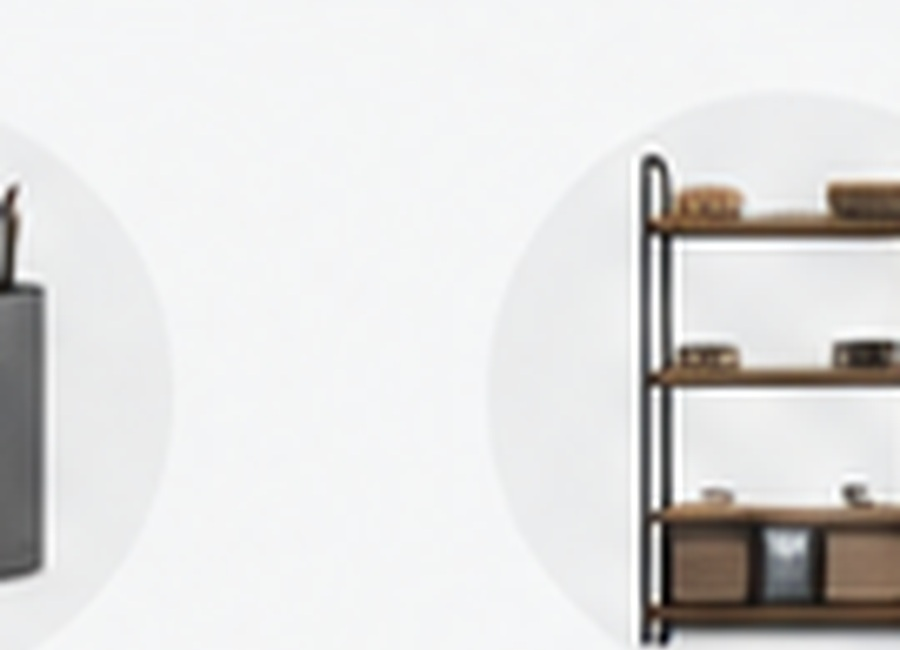
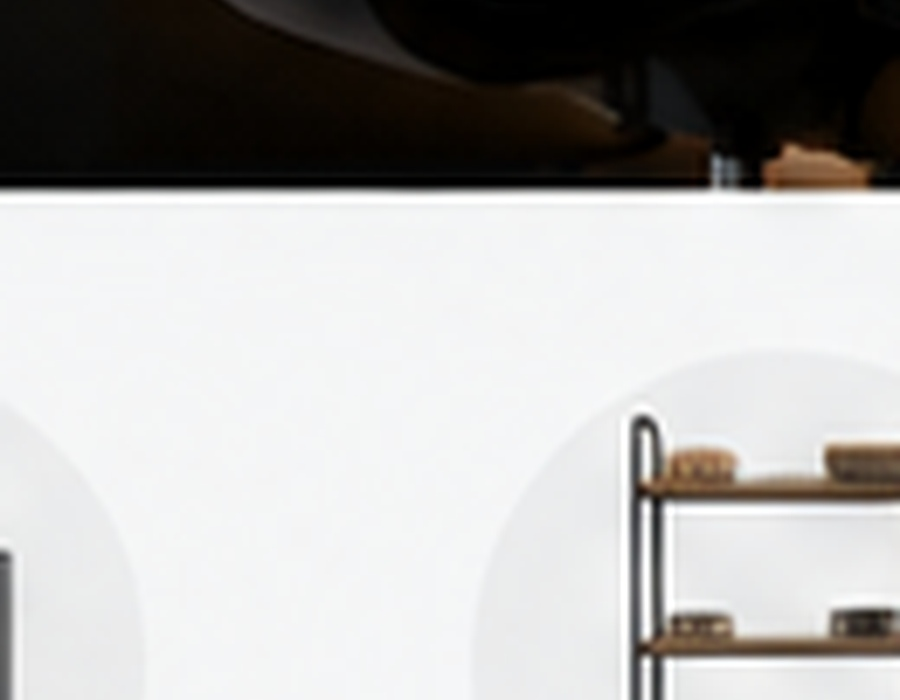
Add files via upload

diff --git a/css/style.css b/css/style.css
@@ -1,1 +1,1 @@
-*{box-sizing:border-box} :root{--ink:#0b0f12;--panel:#12181c;--green:#8cff19;--muted:#66716d;--line:#dce2de}body{margin:0;font-family:Inter,Arial,sans-serif;color:var(--ink);background:#fff}a{text-decoration:none;color:inherit}button,input,select,textarea{font:inherit}.container{width:min(1240px,calc(100% - 36px));margin:auto}.top{background:#080c0f;color:#cdd5d2;font-size:12px;padding:9px}.top .container{display:flex;justify-content:space-between}.top strong,.eyebrow{color:var(--green)}.header{background:#090d10;color:white;border-bottom:1px solid #273035;position:sticky;top:0;z-index:20}.head{height:74px;display:flex;align-items:center;gap:24px}.brand img{width:175px;height:58px;object-fit:contain}.nav{display:flex;gap:18px;flex:1;font-size:13px}.nav a:hover,.nav a.active{color:var(--green)}.search{width:270px}.search input{width:100%;padding:11px 15px;border-radius:22px;background:#192126;border:1px solid #364047;color:white}.actions{display:flex;gap:12px}.icon{background:none;border:0;color:white;cursor:pointer;font-size:18px;position:relative}.count{position:absolute;right:-8px;top:-7px;background:var(--green);color:#071008;border-radius:10px;padding:2px 5px;font-size:10px}.hero{min-height:590px;background:#101417 url('../assets/images/banners/hero-workspace.jpg') center/cover no-repeat;color:white;position:relative}.hero:after{content:'';position:absolute;inset:0;background:linear-gradient(90deg,rgba(5,8,10,.96),rgba(5,8,10,.7) 40%,rgba(5,8,10,.08) 82%)}.hero .container{position:relative;z-index:1}.hero-copy{padding:100px 0 70px;max-width:590px}.hero h1{font-size:clamp(44px,6vw,76px);line-height:.98;margin:12px 0 20px}.hero p{font-size:18px;line-height:1.6;color:#dce3df}.actions-row{display:flex;gap:12px;margin:28px 0}.btn{display:inline-flex;align-items:center;justify-content:center;gap:8px;padding:12px 18px;border:1px solid #cbd4cf;background:white;border-radius:8px;font-weight:800;cursor:pointer}.btn.primary{background:var(--green);border-color:var(--green)}.btn.dark{background:#101418;border-color:#667077;color:#fff}.benefits{display:flex;gap:25px;margin-top:42px}.benefit b{display:block}.benefit span{color:#b8c2bf;font-size:12px}.section{padding:68px 0}.section.dark{background:#0d1215;color:white}.section-head{display:flex;justify-content:space-between;align-items:end;margin-bottom:25px}.section-head h2{font-size:34px;margin:5px 0}.eyebrow{text-transform:uppercase;letter-spacing:.17em;font-size:11px;font-weight:900}.categories{display:grid;grid-template-columns:repeat(8,1fr);gap:12px}.cat{border:1px solid var(--line);border-radius:12px;overflow:hidden;text-align:center;background:white}.cat:hover{transform:translateY(-3px)}.cat img{width:100%;aspect-ratio:1;object-fit:cover;display:block}.cat strong{display:block;padding:10px 5px 2px}.cat small{display:block;color:var(--muted);padding-bottom:12px}.grid{display:grid;grid-template-columns:repeat(4,1fr);gap:18px}.product{border:1px solid var(--line);border-radius:14px;overflow:hidden;background:white}.pimg{height:250px;background:#f5f7f5;position:relative}.pimg img{width:100%;height:100%;object-fit:contain}.heart{position:absolute;right:12px;top:12px;border:1px solid #d2dad6;background:white;width:38px;height:38px;border-radius:50%;cursor:pointer}.badge{position:absolute;left:12px;top:12px;background:var(--green);padding:6px 9px;border-radius:14px;font-size:11px;font-weight:900}.pbody{padding:16px}.pbody .category{font-size:11px;letter-spacing:.12em;color:#77817e;text-transform:uppercase}.pbody h3{margin:8px 0;font-size:18px}.rating{color:#eaa400;font-size:13px}.price{font-size:21px;font-weight:900;margin:8px 0}.pbody p{font-size:13px;color:var(--muted);line-height:1.5;min-height:40px}.feature-grid,.tools{display:grid;grid-template-columns:repeat(3,1fr);gap:16px}.feature{height:285px;border-radius:16px;background-size:cover;background-position:center;position:relative;overflow:hidden;color:white}.feature:after{content:'';position:absolute;inset:0;background:linear-gradient(90deg,rgba(0,0,0,.78),rgba(0,0,0,.12))}.feature-copy{position:relative;z-index:1;padding:28px;max-width:390px}.feature h3{font-size:28px;margin:7px 0}.builder{display:grid;grid-template-columns:1fr 1fr;border-radius:18px;overflow:hidden;background:#11181c}.builder-photo{min-height:390px;background:url('../assets/images/banners/desk-builder.jpg') center/cover}.builder-copy{padding:48px;color:white}.builder-copy h2{font-size:40px;margin:8px 0}.muted{color:var(--muted)}.builder-list{display:grid;grid-template-columns:1fr 1fr;gap:9px;margin:24px 0}.builder-list span{border:1px solid #344047;padding:10px;border-radius:7px}.page-hero{background:#0d1215;color:white;padding:72px 0}.page-hero h1{font-size:54px;margin:8px 0}.toolbar{display:flex;gap:10px;margin-bottom:25px}.toolbar input,.toolbar select{padding:12px;border:1px solid var(--line);border-radius:8px}.toolbar input{flex:1}.footer{background:#080d10;color:#b9c4c0;padding:55px 0 20px}.footer-grid{width:min(1240px,calc(100% - 36px));margin:auto;display:grid;grid-template-columns:2fr 1fr 1fr 1.4fr;gap:35px}.footer h4{color:white}.footer a{display:block;margin:8px 0}.footer-bottom{width:min(1240px,calc(100% - 36px));margin:35px auto 0;border-top:1px solid #273136;padding-top:17px;font-size:12px}.drawer{position:fixed;right:-430px;top:0;width:min(430px,92vw);height:100%;background:white;z-index:80;padding:24px;box-shadow:-20px 0 60px #0003;transition:.25s;overflow:auto}.drawer.open{right:0}.overlay{display:none;position:fixed;inset:0;background:#0007;z-index:70}.overlay.show{display:block}.cart-row{display:grid;grid-template-columns:60px 1fr auto;gap:10px;border-bottom:1px solid var(--line);padding:12px 0}.cart-row img{width:60px;height:50px;object-fit:contain;background:#f5f6f5}.toast{position:fixed;right:20px;bottom:20px;background:#101417;color:white;padding:13px 17px;border-radius:8px;z-index:100;opacity:0;transform:translateY(20px);transition:.2s}.toast.show{opacity:1;transform:none}.form{display:grid;gap:12px;max-width:650px}.form input,.form textarea{padding:12px;border:1px solid var(--line);border-radius:8px}.form textarea{min-height:150px}.info-grid{display:grid;grid-template-columns:repeat(3,1fr);gap:16px}.info{border:1px solid var(--line);border-radius:14px;padding:24px}.detail{display:grid;grid-template-columns:1.1fr .9fr;gap:45px}.detail-photo{background:#f5f7f5;border-radius:18px;min-height:570px}.detail-photo img{width:100%;height:100%;object-fit:contain}.chips{display:flex;gap:8px;flex-wrap:wrap;margin:20px 0}.chip{background:#eef2ef;padding:8px 10px;border-radius:20px;font-size:12px}@media(max-width:1050px){.nav{display:none}.categories{grid-template-columns:repeat(4,1fr)}.grid{grid-template-columns:repeat(3,1fr)}.builder,.detail{grid-template-columns:1fr}.feature-grid,.tools{grid-template-columns:1fr}.footer-grid{grid-template-columns:1fr 1fr}}@media(max-width:650px){.search{display:none}.hero-copy{padding:70px 0 45px}.benefits{display:grid;grid-template-columns:1fr 1fr}.categories{grid-template-columns:repeat(2,1fr)}.grid{grid-template-columns:1fr 1fr}.footer-grid,.info-grid{grid-template-columns:1fr}.section{padding:48px 0}.toolbar{flex-direction:column}}@media(max-width:450px){.grid{grid-template-columns:1fr}.brand img{width:140px}.hero h1{font-size:45px}}
+*{box-sizing:border-box} :root{--ink:#0b0f12;--panel:#12181c;--green:#8cff19;--muted:#66716d;--line:#dce2de}body{margin:0;font-family:Inter,Arial,sans-serif;color:var(--ink);background:#fff}a{text-decoration:none;color:inherit}button,input,select,textarea{font:inherit}.container{width:min(1240px,calc(100% - 36px));margin:auto}.top{background:#080c0f;color:#cdd5d2;font-size:12px;padding:9px}.top .container{display:flex;justify-content:space-between}.top strong,.eyebrow{color:var(--green)}.header{background:#090d10;color:white;border-bottom:1px solid #273035;position:sticky;top:0;z-index:20}.head{height:74px;display:flex;align-items:center;gap:24px}.brand img{width:175px;height:58px;object-fit:contain}.nav{display:flex;gap:18px;flex:1;font-size:13px}.nav a:hover,.nav a.active{color:var(--green)}.search{width:270px}.search input{width:100%;padding:11px 15px;border-radius:22px;background:#192126;border:1px solid #364047;color:white}.actions{display:flex;gap:12px}.icon{background:none;border:0;color:white;cursor:pointer;font-size:18px;position:relative}.count{position:absolute;right:-8px;top:-7px;background:var(--green);color:#071008;border-radius:10px;padding:2px 5px;font-size:10px}.hero{min-height:590px;background:#101417 url('../assets/images/banners/hero-workspace.jpg') center/cover no-repeat;color:white;position:relative}.hero:after{content:'';position:absolute;inset:0;background:linear-gradient(90deg,rgba(5,8,10,.96),rgba(5,8,10,.7) 40%,rgba(5,8,10,.08) 82%)}.hero .container{position:relative;z-index:1}.hero-copy{padding:100px 0 70px;max-width:590px}.hero h1{font-size:clamp(44px,6vw,76px);line-height:.98;margin:12px 0 20px}.hero p{font-size:18px;line-height:1.6;color:#dce3df}.actions-row{display:flex;gap:12px;margin:28px 0}.btn{display:inline-flex;align-items:center;justify-content:center;gap:8px;padding:12px 18px;border:1px solid #cbd4cf;background:white;border-radius:8px;font-weight:800;cursor:pointer}.btn.primary{background:var(--green);border-color:var(--green)}.btn.dark{background:#101418;border-color:#667077;color:#fff}.benefits{display:flex;gap:25px;margin-top:42px}.benefit b{display:block}.benefit span{color:#b8c2bf;font-size:12px}.section{padding:68px 0}.section.dark{background:#0d1215;color:white}.section-head{display:flex;justify-content:space-between;align-items:end;margin-bottom:25px}.section-head h2{font-size:34px;margin:5px 0}.eyebrow{text-transform:uppercase;letter-spacing:.17em;font-size:11px;font-weight:900}.categories{display:grid;grid-template-columns:repeat(8,1fr);gap:12px}.cat{border:1px solid var(--line);border-radius:12px;overflow:hidden;text-align:center;background:white}.cat:hover{transform:translateY(-3px)}.cat img{width:100%;aspect-ratio:1;object-fit:cover;display:block}.cat strong{display:block;padding:10px 5px 2px}.cat small{display:block;color:var(--muted);padding-bottom:12px}.grid{display:grid;grid-template-columns:repeat(4,1fr);gap:18px}.product{border:1px solid var(--line);border-radius:14px;overflow:hidden;background:white}.pimg{height:250px;background:#f5f7f5;position:relative}.pimg img{width:100%;height:100%;object-fit:contain}.heart{position:absolute;right:12px;top:12px;border:1px solid #d2dad6;background:white;width:38px;height:38px;border-radius:50%;cursor:pointer}.badge{position:absolute;left:12px;top:12px;background:var(--green);padding:6px 9px;border-radius:14px;font-size:11px;font-weight:900}.pbody{padding:16px}.pbody .category{font-size:11px;letter-spacing:.12em;color:#77817e;text-transform:uppercase}.pbody h3{margin:8px 0;font-size:18px}.rating{color:#eaa400;font-size:13px}.price{font-size:21px;font-weight:900;margin:8px 0}.pbody p{font-size:13px;color:var(--muted);line-height:1.5;min-height:40px}.feature-grid,.tools{display:grid;grid-template-columns:repeat(3,1fr);gap:16px}.feature{height:285px;border-radius:16px;background:#11181c;position:relative;overflow:hidden;color:white;border:1px solid #29343a}.feature:after{display:none}.feature-copy{position:relative;z-index:1;padding:28px;max-width:390px}.feature h3{font-size:28px;margin:7px 0}.builder{display:grid;grid-template-columns:1fr 1fr;border-radius:18px;overflow:hidden;background:#11181c}.builder-photo{min-height:390px;background:linear-gradient(135deg,#182126,#0d1215 60%,#8cff19 180%)}.builder-copy{padding:48px;color:white}.builder-copy h2{font-size:40px;margin:8px 0}.muted{color:var(--muted)}.builder-list{display:grid;grid-template-columns:1fr 1fr;gap:9px;margin:24px 0}.builder-list span{border:1px solid #344047;padding:10px;border-radius:7px}.page-hero{background:#0d1215;color:white;padding:72px 0}.page-hero h1{font-size:54px;margin:8px 0}.toolbar{display:flex;gap:10px;margin-bottom:25px}.toolbar input,.toolbar select{padding:12px;border:1px solid var(--line);border-radius:8px}.toolbar input{flex:1}.footer{background:#080d10;color:#b9c4c0;padding:55px 0 20px}.footer-grid{width:min(1240px,calc(100% - 36px));margin:auto;display:grid;grid-template-columns:2fr 1fr 1fr 1.4fr;gap:35px}.footer h4{color:white}.footer a{display:block;margin:8px 0}.footer-bottom{width:min(1240px,calc(100% - 36px));margin:35px auto 0;border-top:1px solid #273136;padding-top:17px;font-size:12px}.drawer{position:fixed;right:-430px;top:0;width:min(430px,92vw);height:100%;background:white;z-index:80;padding:24px;box-shadow:-20px 0 60px #0003;transition:.25s;overflow:auto}.drawer.open{right:0}.overlay{display:none;position:fixed;inset:0;background:#0007;z-index:70}.overlay.show{display:block}.cart-row{display:grid;grid-template-columns:60px 1fr auto;gap:10px;border-bottom:1px solid var(--line);padding:12px 0}.cart-row img{width:60px;height:50px;object-fit:contain;background:#f5f6f5}.toast{position:fixed;right:20px;bottom:20px;background:#101417;color:white;padding:13px 17px;border-radius:8px;z-index:100;opacity:0;transform:translateY(20px);transition:.2s}.toast.show{opacity:1;transform:none}.form{display:grid;gap:12px;max-width:650px}.form input,.form textarea{padding:12px;border:1px solid var(--line);border-radius:8px}.form textarea{min-height:150px}.info-grid{display:grid;grid-template-columns:repeat(3,1fr);gap:16px}.info{border:1px solid var(--line);border-radius:14px;padding:24px}.detail{display:grid;grid-template-columns:1.1fr .9fr;gap:45px}.detail-photo{background:#f5f7f5;border-radius:18px;min-height:570px}.detail-photo img{width:100%;height:100%;object-fit:contain}.chips{display:flex;gap:8px;flex-wrap:wrap;margin:20px 0}.chip{background:#eef2ef;padding:8px 10px;border-radius:20px;font-size:12px}@media(max-width:1050px){.nav{display:none}.categories{grid-template-columns:repeat(4,1fr)}.grid{grid-template-columns:repeat(3,1fr)}.builder,.detail{grid-template-columns:1fr}.feature-grid,.tools{grid-template-columns:1fr}.footer-grid{grid-template-columns:1fr 1fr}}@media(max-width:650px){.search{display:none}.hero-copy{padding:70px 0 45px}.benefits{display:grid;grid-template-columns:1fr 1fr}.categories{grid-template-columns:repeat(2,1fr)}.grid{grid-template-columns:1fr 1fr}.footer-grid,.info-grid{grid-template-columns:1fr}.section{padding:48px 0}.toolbar{flex-direction:column}}@media(max-width:450px){.grid{grid-template-columns:1fr}.brand img{width:140px}.hero h1{font-size:45px}}

diff --git a/index.html b/index.html
@@ -1,1 +1,5 @@
-<!doctype html><html lang="en"><head><meta charset="utf-8"><meta name="viewport" content="width=device-width,initial-scale=1"><meta name="description" content="NOVA DESK modern workspace essentials."><title>Home | NOVA DESK</title><link rel="stylesheet" href="css/style.css"></head><body><div class="top"><div class="container"><span>🚚 Free shipping on orders over $99</span><span><strong>2-year warranty</strong> · Easy returns</span></div></div><header class="header"><div class="container head"><a class="brand" href="index.html"><img src="assets/images/brand/nova-desk-logo.png" alt="NOVA DESK"></a><nav class="nav"><a class="active" href="index.html">Home</a><a class="" href="shop.html">Shop</a><a class="" href="shop.html?category=Desks">Desks</a><a class="" href="shop.html?category=Chairs">Chairs</a><a class="" href="shop.html?category=Lighting">Lighting</a><a class="" href="shop.html?category=Accessories">Accessories</a><a class="" href="builder.html">Setup Builder</a><a class="" href="journal.html">Journal</a><a class="" href="support.html">Support</a></nav><label class="search"><input id="site-search" placeholder="Search desks, chairs, accessories..."></label><div class="actions"><button class="icon">♙</button><button class="icon" onclick="location.href='shop.html'">♡<span class="count" data-wish-count>0</span></button><button class="icon" onclick="openCart()">🛒<span class="count" data-cart-count>0</span></button></div></div></header><main class="hero"><div class="container"><div class="hero-copy"><span class="eyebrow">A better way to work</span><h1>Designed for a <span style="color:var(--green)">brighter</span> workday.</h1><p>Premium desks, ergonomic chairs and workspace essentials designed for comfort, focus and productivity.</p><div class="actions-row"><a class="btn primary" href="shop.html">Shop best sellers →</a><a class="btn dark" href="builder.html">Build your setup</a></div><div class="benefits"><div class="benefit">🚚 <b>Free shipping</b><span>Orders over $99</span></div><div class="benefit">🛡 <b>2-year warranty</b><span>Premium quality</span></div><div class="benefit">♧ <b>Dedicated support</b><span>We're here to help</span></div></div></div></div></main><section class="section"><div class="container"><div class="section-head"><div><span class="eyebrow">Shop by category</span><h2>Build your ideal space.</h2></div><a class="btn" href="categories.html">All categories →</a></div><div class="categories"><a class="cat" href="shop.html?category=Desks"><img src="assets/images/categories/desks.jpg" alt="Desks"><strong>Desks</strong><small>Shop now →</small></a><a class="cat" href="shop.html?category=Chairs"><img src="assets/images/categories/chairs.jpg" alt="Chairs"><strong>Chairs</strong><small>Shop now →</small></a><a class="cat" href="shop.html?category=Monitor Arms"><img src="assets/images/categories/monitor-arms.jpg" alt="Monitor Arms"><strong>Monitor Arms</strong><small>Shop now →</small></a><a class="cat" href="shop.html?category=Lighting"><img src="assets/images/categories/lighting.jpg" alt="Lighting"><strong>Lighting</strong><small>Shop now →</small></a><a class="cat" href="shop.html?category=Accessories"><img src="assets/images/categories/accessories.jpg" alt="Accessories"><strong>Accessories</strong><small>Shop now →</small></a><a class="cat" href="shop.html?category=Storage"><img src="assets/images/categories/storage.jpg" alt="Storage"><strong>Storage</strong><small>Shop now →</small></a><a class="cat" href="shop.html?category=Decor"><img src="assets/images/categories/decor.jpg" alt="Decor"><strong>Decor</strong><small>Shop now →</small></a><a class="cat" href="shop.html?category=Tech Gear"><img src="assets/images/categories/tech-gear.jpg" alt="Tech Gear"><strong>Tech Gear</strong><small>Shop now →</small></a></div></div></section><section class="section dark"><div class="container"><div class="builder"><div class="builder-photo"></div><div class="builder-copy"><span class="eyebrow">NOVA DESK BUILDER</span><h2>Design your perfect workspace.</h2><p style="color:#aeb9b5">Choose your desk, chair, monitor and accessories. See your setup come together before you buy.</p><div class="builder-list"><span>✓ Desk</span><span>✓ Chair</span><span>✓ Monitor</span><span>✓ Accessories</span></div><a class="btn primary" href="builder.html">Start building →</a></div></div></div></section><section class="section"><div class="container"><div class="section-head"><div><span class="eyebrow">Curated essentials</span><h2>Featured products</h2></div><a class="btn" href="shop.html">View all →</a></div><div id="product-grid" class="grid"></div></div></section><section class="section"><div class="container"><div class="feature-grid"><article class="feature" style="background-image:url('assets/images/banners/chair-finder.jpg')"><div class="feature-copy"><span class="eyebrow">Chair Finder</span><h3>Find your perfect chair.</h3><p>Get a simple recommendation based on how you work.</p><a class="btn primary" href="finder.html">Take the guide →</a></div></article><article class="feature" style="background-image:url('assets/images/banners/real-setups.jpg')"><div class="feature-copy"><span class="eyebrow">Real setups</span><h3>Workspace inspiration.</h3><p>Explore practical ideas for creators and professionals.</p><a class="btn primary" href="journal.html">Explore →</a></div></article><article class="feature" style="background-image:url('assets/images/banners/desk-builder.jpg')"><div class="feature-copy"><span class="eyebrow">Build</span><h3>Start with the essentials.</h3><p>Put your desk together in a few simple steps.</p><a class="btn primary" href="builder.html">Start building →</a></div></article></div></div></section><footer class="footer"><div class="footer-grid"><div><img src="assets/images/brand/nova-desk-logo.png" style="width:185px;height:60px;object-fit:contain"><p>Modern workspace essentials for better work and brighter days.</p><p>Portland, Oregon, United States<br>support@novadeskworkspace.com<br>+1 (503) 555-0186</p></div><div><h4>Shop</h4><a href="shop.html">All products</a><a href="shop.html?category=Desks">Desks</a><a href="shop.html?category=Chairs">Chairs</a><a href="shop.html?category=Lighting">Lighting</a></div><div><h4>Experience</h4><a href="builder.html">Desk Builder</a><a href="finder.html">Chair Finder</a><a href="journal.html">Journal</a><a href="support.html">Support</a></div><div><h4>Newsletter</h4><p>Workspace ideas, launches and setup guides.</p></div></div><div class="footer-bottom">© 2026 NOVA DESK Workspace. All rights reserved.</div></footer><div class="overlay" onclick="closeCart()"></div><aside class="drawer"><button class="btn" onclick="closeCart()">Close</button><h2>Your Cart</h2><div data-cart></div></aside><div class="toast"></div><script src="js/app.js"></script></body></html>
+<!doctype html><html lang="en"><head><meta charset="utf-8"><meta name="viewport" content="width=device-width,initial-scale=1"><meta name="description" content="NOVA DESK modern workspace essentials."><title>Home | NOVA DESK</title><link rel="stylesheet" href="css/style.css"></head><body><div class="top"><div class="container"><span>🚚 Free shipping on orders over $99</span><span><strong>2-year warranty</strong> · Easy returns</span></div></div><header class="header"><div class="container head"><a class="brand" href="index.html"><img src="assets/images/brand/nova-desk-logo.png" alt="NOVA DESK"></a><nav class="nav"><a class="active" href="index.html">Home</a><a class="" href="shop.html">Shop</a><a class="" href="shop.html?category=Desks">Desks</a><a class="" href="shop.html?category=Chairs">Chairs</a><a class="" href="shop.html?category=Lighting">Lighting</a><a class="" href="shop.html?category=Accessories">Accessories</a><a class="" href="builder.html">Setup Builder</a><a class="" href="journal.html">Journal</a><a class="" href="support.html">Support</a></nav><label class="search"><input id="site-search" placeholder="Search desks, chairs, accessories..."></label><div class="actions"><button class="icon">♙</button><button class="icon" onclick="location.href='shop.html'">♡<span class="count" data-wish-count>0</span></button><button class="icon" onclick="openCart()">🛒<span class="count" data-cart-count>0</span></button></div></div></header><main class="hero"><div class="container"><div class="hero-copy"><span class="eyebrow">A better way to work</span><h1>Designed for a <span style="color:var(--green)">brighter</span> workday.</h1><p>Premium desks, ergonomic chairs and workspace essentials designed for comfort, focus and productivity.</p><div class="actions-row"><a class="btn primary" href="shop.html">Shop best sellers →</a><a class="btn dark" href="builder.html">Build your setup</a></div><div class="benefits"><div class="benefit">🚚 <b>Free shipping</b><span>Orders over $99</span></div><div class="benefit">🛡 <b>2-year warranty</b><span>Premium quality</span></div><div class="benefit">♧ <b>Dedicated support</b><span>We're here to help</span></div></div></div></div></main><section class="section"><div class="container"><div class="section-head"><div><span class="eyebrow">Shop by category</span><h2>Build your ideal space.</h2></div><a class="btn" href="categories.html">All categories →</a></div><div class="categories"><a class="cat" href="shop.html?category=Desks"><img src="assets/images/categories/desks.jpg" alt="Desks"><strong>Desks</strong><small>Shop now →</small></a><a class="cat" href="shop.html?category=Chairs"><img src="assets/images/categories/chairs.jpg" alt="Chairs"><strong>Chairs</strong><small>Shop now →</small></a><a class="cat" href="shop.html?category=Monitor Arms"><img src="assets/images/categories/monitor-arms.jpg" alt="Monitor Arms"><strong>Monitor Arms</strong><small>Shop now →</small></a><a class="cat" href="shop.html?category=Lighting"><img src="assets/images/categories/lighting.jpg" alt="Lighting"><strong>Lighting</strong><small>Shop now →</small></a><a class="cat" href="shop.html?category=Accessories"><img src="assets/images/categories/accessories.jpg" alt="Accessories"><strong>Accessories</strong><small>Shop now →</small></a><a class="cat" href="shop.html?category=Storage"><img src="assets/images/categories/storage.jpg" alt="Storage"><strong>Storage</strong><small>Shop now →</small></a><a class="cat" href="shop.html?category=Decor"><img src="assets/images/categories/decor.jpg" alt="Decor"><strong>Decor</strong><small>Shop now →</small></a><a class="cat" href="shop.html?category=Tech Gear"><img src="assets/images/categories/tech-gear.jpg" alt="Tech Gear"><strong>Tech Gear</strong><small>Shop now →</small></a></div></div></section><section class="section dark"><div class="container"><div class="builder"><div class="builder-photo"></div><div class="builder-copy"><span class="eyebrow">NOVA DESK BUILDER</span><h2>Design your perfect workspace.</h2><p style="color:#aeb9b5">Choose your desk, chair, monitor and accessories. See your setup come together before you buy.</p><div class="builder-list"><span>✓ Desk</span><span>✓ Chair</span><span>✓ Monitor</span><span>✓ Accessories</span></div><a class="btn primary" href="builder.html">Start building →</a></div></div></div></section><section class="section"><div class="container"><div class="section-head"><div><span class="eyebrow">Curated essentials</span><h2>Featured products</h2></div><a class="btn" href="shop.html">View all →</a></div><div id="product-grid" class="grid"></div></div></section><section class="section"><div class="container"><div class="feature-grid">
+<article class="feature"><div class="feature-copy"><span class="eyebrow">Chair Finder</span><h3>Find your perfect chair.</h3><p>Compare comfort, support and adjustability before you choose.</p><a class="btn primary" href="finder.html">Take the guide →</a></div></article>
+<article class="feature"><div class="feature-copy"><span class="eyebrow">Real setups</span><h3>Workspace inspiration.</h3><p>Practical ideas for creators, professionals and compact spaces.</p><a class="btn primary" href="journal.html">Explore →</a></div></article>
+<article class="feature"><div class="feature-copy"><span class="eyebrow">Build</span><h3>Start with the essentials.</h3><p>Plan your desk, chair and lighting in a few simple steps.</p><a class="btn primary" href="builder.html">Start building →</a></div></article>
+</div></div></section><footer class="footer"><div class="footer-grid"><div><img src="assets/images/brand/nova-desk-logo.png" style="width:185px;height:60px;object-fit:contain"><p>Modern workspace essentials for better work and brighter days.</p><p>Portland, Oregon, United States<br>support@novadeskworkspace.com<br>+1 (503) 555-0186</p></div><div><h4>Shop</h4><a href="shop.html">All products</a><a href="shop.html?category=Desks">Desks</a><a href="shop.html?category=Chairs">Chairs</a><a href="shop.html?category=Lighting">Lighting</a></div><div><h4>Experience</h4><a href="builder.html">Desk Builder</a><a href="finder.html">Chair Finder</a><a href="journal.html">Journal</a><a href="support.html">Support</a></div><div><h4>Newsletter</h4><p>Workspace ideas, launches and setup guides.</p></div></div><div class="footer-bottom">© 2026 NOVA DESK Workspace. All rights reserved.</div></footer><div class="overlay" onclick="closeCart()"></div><aside class="drawer"><button class="btn" onclick="closeCart()">Close</button><h2>Your Cart</h2><div data-cart></div></aside><div class="toast"></div><script src="js/app.js"></script></body></html>

diff --git a/collections.html b/collections.html
@@ -1,1 +1,5 @@
-<!doctype html><html lang="en"><head><meta charset="utf-8"><meta name="viewport" content="width=device-width,initial-scale=1"><meta name="description" content="NOVA DESK modern workspace essentials."><title>Collections | NOVA DESK</title><link rel="stylesheet" href="css/style.css"></head><body><div class="top"><div class="container"><span>🚚 Free shipping on orders over $99</span><span><strong>2-year warranty</strong> · Easy returns</span></div></div><header class="header"><div class="container head"><a class="brand" href="index.html"><img src="assets/images/brand/nova-desk-logo.png" alt="NOVA DESK"></a><nav class="nav"><a class="active" href="index.html">Home</a><a class="" href="shop.html">Shop</a><a class="" href="shop.html?category=Desks">Desks</a><a class="" href="shop.html?category=Chairs">Chairs</a><a class="" href="shop.html?category=Lighting">Lighting</a><a class="" href="shop.html?category=Accessories">Accessories</a><a class="" href="builder.html">Setup Builder</a><a class="" href="journal.html">Journal</a><a class="" href="support.html">Support</a></nav><label class="search"><input id="site-search" placeholder="Search desks, chairs, accessories..."></label><div class="actions"><button class="icon">♙</button><button class="icon" onclick="location.href='shop.html'">♡<span class="count" data-wish-count>0</span></button><button class="icon" onclick="openCart()">🛒<span class="count" data-cart-count>0</span></button></div></div></header><main class="page-hero"><div class="container"><span class="eyebrow">Collections</span><h1>Curated workspace styles.</h1></div></main><section class="section"><div class="container"><div class="feature-grid"><article class="feature" style="background-image:url('assets/images/banners/real-setups.jpg')"><div class="feature-copy"><span class="eyebrow">Minimal</span><h3>Clean lines. Clear focus.</h3><p>A restrained workspace built around essentials.</p><a class="btn primary" href="shop.html">Explore →</a></div></article><article class="feature" style="background-image:url('assets/images/banners/desk-builder.jpg')"><div class="feature-copy"><span class="eyebrow">Creator</span><h3>Designed to make.</h3><p>Flexible surfaces and ergonomic support for creative work.</p><a class="btn primary" href="builder.html">Build it →</a></div></article><article class="feature" style="background-image:url('assets/images/banners/chair-finder.jpg')"><div class="feature-copy"><span class="eyebrow">Focus</span><h3>Comfort without clutter.</h3><p>Keep the setup simple and the chair supportive.</p><a class="btn primary" href="finder.html">Find yours →</a></div></article></div></div></section><footer class="footer"><div class="footer-grid"><div><img src="assets/images/brand/nova-desk-logo.png" style="width:185px;height:60px;object-fit:contain"><p>Modern workspace essentials for better work and brighter days.</p><p>Portland, Oregon, United States<br>support@novadeskworkspace.com<br>+1 (503) 555-0186</p></div><div><h4>Shop</h4><a href="shop.html">All products</a><a href="shop.html?category=Desks">Desks</a><a href="shop.html?category=Chairs">Chairs</a><a href="shop.html?category=Lighting">Lighting</a></div><div><h4>Experience</h4><a href="builder.html">Desk Builder</a><a href="finder.html">Chair Finder</a><a href="journal.html">Journal</a><a href="support.html">Support</a></div><div><h4>Newsletter</h4><p>Workspace ideas, launches and setup guides.</p></div></div><div class="footer-bottom">© 2026 NOVA DESK Workspace. All rights reserved.</div></footer><div class="overlay" onclick="closeCart()"></div><aside class="drawer"><button class="btn" onclick="closeCart()">Close</button><h2>Your Cart</h2><div data-cart></div></aside><div class="toast"></div><script src="js/app.js"></script></body></html>
+<!doctype html><html lang="en"><head><meta charset="utf-8"><meta name="viewport" content="width=device-width,initial-scale=1"><title>Collections | NOVA DESK</title><link rel="stylesheet" href="css/style.css"></head><body><div class="top"><div class="container"><span>🚚 Free shipping on orders over $99</span><span><strong>2-year warranty</strong> · Easy returns</span></div></div><header class="header"><div class="container head"><a class="brand" href="index.html"><img src="assets/images/brand/nova-desk-logo.png" alt="NOVA DESK"></a><nav class="nav"><a class="active" href="index.html">Home</a><a class="" href="shop.html">Shop</a><a class="" href="shop.html?category=Desks">Desks</a><a class="" href="shop.html?category=Chairs">Chairs</a><a class="" href="shop.html?category=Lighting">Lighting</a><a class="" href="shop.html?category=Accessories">Accessories</a><a class="" href="builder.html">Setup Builder</a><a class="" href="journal.html">Journal</a><a class="" href="support.html">Support</a></nav><label class="search"><input id="site-search" placeholder="Search desks, chairs, accessories..."></label><div class="actions"><button class="icon">♙</button><button class="icon" onclick="location.href='shop.html'">♡<span class="count" data-wish-count>0</span></button><button class="icon" onclick="openCart()">🛒<span class="count" data-cart-count>0</span></button></div></div></header><main class="page-hero"><div class="container"><span class="eyebrow">Collections</span><h1>Curated workspace styles.</h1><p style="color:#aeb9b5;max-width:700px">Clean, useful directions for minimal, creator and focus-first workspaces.</p></div></main><section class="section"><div class="container"><div class="feature-grid">
+<article class="feature"><div class="feature-copy"><span class="eyebrow">Workspace Design</span><h3>How to build a balanced desk setup.</h3><p>Start with posture, lighting and reach before adding accessories.</p><a class="btn primary" href="builder.html">Build your setup →</a></div></article>
+<article class="feature"><div class="feature-copy"><span class="eyebrow">Ergonomics</span><h3>What to look for in an office chair.</h3><p>Adjustability and support matter more than appearance alone.</p><a class="btn primary" href="finder.html">Find a chair →</a></div></article>
+<article class="feature"><div class="feature-copy"><span class="eyebrow">Organization</span><h3>Keep the workspace clear.</h3><p>Use storage and accessories to make the essentials easier to reach.</p><a class="btn primary" href="shop.html">Shop accessories →</a></div></article>
+</div></div></section><footer class="footer"><div class="footer-grid"><div><img src="assets/images/brand/nova-desk-logo.png" style="width:185px;height:60px;object-fit:contain"><p>Modern workspace essentials for better work and brighter days.</p><p>Portland, Oregon, United States<br>support@novadeskworkspace.com<br>+1 (503) 555-0186</p></div><div><h4>Shop</h4><a href="shop.html">All products</a><a href="shop.html?category=Desks">Desks</a><a href="shop.html?category=Chairs">Chairs</a><a href="shop.html?category=Lighting">Lighting</a></div><div><h4>Experience</h4><a href="builder.html">Desk Builder</a><a href="finder.html">Chair Finder</a><a href="journal.html">Journal</a><a href="support.html">Support</a></div><div><h4>Newsletter</h4><p>Workspace ideas, launches and setup guides.</p></div></div><div class="footer-bottom">© 2026 NOVA DESK Workspace. All rights reserved.</div></footer><div class="overlay" onclick="closeCart()"></div><aside class="drawer"><button class="btn" onclick="closeCart()">Close</button><h2>Your Cart</h2><div data-cart></div></aside><div class="toast"></div><script src="js/app.js"></script></body></html>

diff --git a/journal.html b/journal.html
@@ -1,1 +1,5 @@
-<!doctype html><html lang="en"><head><meta charset="utf-8"><meta name="viewport" content="width=device-width,initial-scale=1"><meta name="description" content="NOVA DESK modern workspace essentials."><title>Journal | NOVA DESK</title><link rel="stylesheet" href="css/style.css"></head><body><div class="top"><div class="container"><span>🚚 Free shipping on orders over $99</span><span><strong>2-year warranty</strong> · Easy returns</span></div></div><header class="header"><div class="container head"><a class="brand" href="index.html"><img src="assets/images/brand/nova-desk-logo.png" alt="NOVA DESK"></a><nav class="nav"><a class="" href="index.html">Home</a><a class="" href="shop.html">Shop</a><a class="" href="shop.html?category=Desks">Desks</a><a class="" href="shop.html?category=Chairs">Chairs</a><a class="" href="shop.html?category=Lighting">Lighting</a><a class="" href="shop.html?category=Accessories">Accessories</a><a class="" href="builder.html">Setup Builder</a><a class="active" href="journal.html">Journal</a><a class="" href="support.html">Support</a></nav><label class="search"><input id="site-search" placeholder="Search desks, chairs, accessories..."></label><div class="actions"><button class="icon">♙</button><button class="icon" onclick="location.href='shop.html'">♡<span class="count" data-wish-count>0</span></button><button class="icon" onclick="openCart()">🛒<span class="count" data-cart-count>0</span></button></div></div></header><main class="page-hero"><div class="container"><span class="eyebrow">NOVA DESK JOURNAL</span><h1>Ideas for better work.</h1><p style="color:#aeb9b5">Practical guides for comfortable, focused and organized workspaces.</p></div></main><section class="section"><div class="container"><div class="feature-grid"><article class="feature" style="background-image:url('assets/images/banners/desk-builder.jpg')"><div class="feature-copy"><span class="eyebrow">Workspace Design</span><h3>How to build a balanced desk setup.</h3><p>Start with posture, lighting and reach before adding accessories.</p></div></article><article class="feature" style="background-image:url('assets/images/banners/chair-finder.jpg')"><div class="feature-copy"><span class="eyebrow">Ergonomics</span><h3>What to look for in an office chair.</h3><p>Adjustability matters more than appearance alone.</p></div></article><article class="feature" style="background-image:url('assets/images/banners/real-setups.jpg')"><div class="feature-copy"><span class="eyebrow">Inspiration</span><h3>Build a space you enjoy using.</h3><p>Good workspaces balance function and visual calm.</p></div></article></div></div></section><footer class="footer"><div class="footer-grid"><div><img src="assets/images/brand/nova-desk-logo.png" style="width:185px;height:60px;object-fit:contain"><p>Modern workspace essentials for better work and brighter days.</p><p>Portland, Oregon, United States<br>support@novadeskworkspace.com<br>+1 (503) 555-0186</p></div><div><h4>Shop</h4><a href="shop.html">All products</a><a href="shop.html?category=Desks">Desks</a><a href="shop.html?category=Chairs">Chairs</a><a href="shop.html?category=Lighting">Lighting</a></div><div><h4>Experience</h4><a href="builder.html">Desk Builder</a><a href="finder.html">Chair Finder</a><a href="journal.html">Journal</a><a href="support.html">Support</a></div><div><h4>Newsletter</h4><p>Workspace ideas, launches and setup guides.</p></div></div><div class="footer-bottom">© 2026 NOVA DESK Workspace. All rights reserved.</div></footer><div class="overlay" onclick="closeCart()"></div><aside class="drawer"><button class="btn" onclick="closeCart()">Close</button><h2>Your Cart</h2><div data-cart></div></aside><div class="toast"></div><script src="js/app.js"></script></body></html>
+<!doctype html><html lang="en"><head><meta charset="utf-8"><meta name="viewport" content="width=device-width,initial-scale=1"><title>Journal | NOVA DESK</title><link rel="stylesheet" href="css/style.css"></head><body><div class="top"><div class="container"><span>🚚 Free shipping on orders over $99</span><span><strong>2-year warranty</strong> · Easy returns</span></div></div><header class="header"><div class="container head"><a class="brand" href="index.html"><img src="assets/images/brand/nova-desk-logo.png" alt="NOVA DESK"></a><nav class="nav"><a class="" href="index.html">Home</a><a class="" href="shop.html">Shop</a><a class="" href="shop.html?category=Desks">Desks</a><a class="" href="shop.html?category=Chairs">Chairs</a><a class="" href="shop.html?category=Lighting">Lighting</a><a class="" href="shop.html?category=Accessories">Accessories</a><a class="" href="builder.html">Setup Builder</a><a class="active" href="journal.html">Journal</a><a class="" href="support.html">Support</a></nav><label class="search"><input id="site-search" placeholder="Search desks, chairs, accessories..."></label><div class="actions"><button class="icon">♙</button><button class="icon" onclick="location.href='shop.html'">♡<span class="count" data-wish-count>0</span></button><button class="icon" onclick="openCart()">🛒<span class="count" data-cart-count>0</span></button></div></div></header><main class="page-hero"><div class="container"><span class="eyebrow">NOVA DESK JOURNAL</span><h1>Ideas for better work.</h1><p style="color:#aeb9b5;max-width:700px">Practical guides for comfortable, focused and organized workspaces.</p></div></main><section class="section"><div class="container"><div class="feature-grid">
+<article class="feature"><div class="feature-copy"><span class="eyebrow">Workspace Design</span><h3>How to build a balanced desk setup.</h3><p>Start with posture, lighting and reach before adding accessories.</p><a class="btn primary" href="builder.html">Build your setup →</a></div></article>
+<article class="feature"><div class="feature-copy"><span class="eyebrow">Ergonomics</span><h3>What to look for in an office chair.</h3><p>Adjustability and support matter more than appearance alone.</p><a class="btn primary" href="finder.html">Find a chair →</a></div></article>
+<article class="feature"><div class="feature-copy"><span class="eyebrow">Organization</span><h3>Keep the workspace clear.</h3><p>Use storage and accessories to make the essentials easier to reach.</p><a class="btn primary" href="shop.html">Shop accessories →</a></div></article>
+</div></div></section><footer class="footer"><div class="footer-grid"><div><img src="assets/images/brand/nova-desk-logo.png" style="width:185px;height:60px;object-fit:contain"><p>Modern workspace essentials for better work and brighter days.</p><p>Portland, Oregon, United States<br>support@novadeskworkspace.com<br>+1 (503) 555-0186</p></div><div><h4>Shop</h4><a href="shop.html">All products</a><a href="shop.html?category=Desks">Desks</a><a href="shop.html?category=Chairs">Chairs</a><a href="shop.html?category=Lighting">Lighting</a></div><div><h4>Experience</h4><a href="builder.html">Desk Builder</a><a href="finder.html">Chair Finder</a><a href="journal.html">Journal</a><a href="support.html">Support</a></div><div><h4>Newsletter</h4><p>Workspace ideas, launches and setup guides.</p></div></div><div class="footer-bottom">© 2026 NOVA DESK Workspace. All rights reserved.</div></footer><div class="overlay" onclick="closeCart()"></div><aside class="drawer"><button class="btn" onclick="closeCart()">Close</button><h2>Your Cart</h2><div data-cart></div></aside><div class="toast"></div><script src="js/app.js"></script></body></html>

diff --git a/js/app.js b/js/app.js
@@ -1,7 +1,7 @@
 let catalog=[],cart=JSON.parse(localStorage.getItem('novaCart')||'[]'),wish=JSON.parse(localStorage.getItem('novaWish')||'[]');
 const money=n=>new Intl.NumberFormat('en-US',{style:'currency',currency:'USD'}).format(n);
 async function init(){catalog=await (await fetch('data/catalog.json')).json();render();counts();const q=new URLSearchParams(location.search).get('q');if(q&&document.querySelector('#catalog-search')){document.querySelector('#catalog-search').value=q;filterProducts()}}
-function render(list=catalog){const el=document.querySelector('#product-grid');if(!el)return;el.innerHTML=list.map((p,i)=>`<article class="product"><div class="pimg"><span class="badge">${i<3?'Featured':'Popular'}</span><button class="heart" onclick="toggleWish('${p.slug}',this)">${wish.includes(p.slug)?'♥':'♡'}</button><img src="assets/images/products/${p.image}" alt="${p.name}"></div><div class="pbody"><span class="category">${p.category}</span><h3>${p.name}</h3><div class="rating">★★★★★ <span class="muted">(${p.reviews})</span></div><div class="price">${money(p.price)}</div><p>${p.description}</p><a class="btn" href="products/${p.slug}.html">View product</a></div></article>`).join('')}
+function render(list=catalog){const el=document.querySelector('#product-grid');if(!el)return;el.innerHTML=list.map((p,i)=>`<article class="product"><div class="pimg"><button class="heart" onclick="toggleWish('${p.slug}',this)">${wish.includes(p.slug)?'♥':'♡'}</button><img src="assets/images/products/${p.image}" alt="${p.name}"></div><div class="pbody"><span class="category">${p.category}</span><h3>${p.name}</h3><div class="rating">★★★★★ <span class="muted">(${p.reviews})</span></div><div class="price">${money(p.price)}</div><p>${p.description}</p><a class="btn" href="products/${p.slug}.html">View product</a></div></article>`).join('')}
 function filterProducts(){let q=(document.querySelector('#catalog-search')?.value||'').toLowerCase(),c=document.querySelector('#catalog-category')?.value||new URLSearchParams(location.search).get('category')||'',s=document.querySelector('#catalog-sort')?.value||'';let a=catalog.filter(p=>(!q||(p.name+p.category+p.description).toLowerCase().includes(q))&&(!c||p.category===c));if(s==='low')a.sort((x,y)=>x.price-y.price);if(s==='high')a.sort((x,y)=>y.price-x.price);if(s==='rating')a.sort((x,y)=>y.rating-x.rating);render(a)}
 function toggleWish(slug,b){wish=wish.includes(slug)?wish.filter(x=>x!==slug):[...wish,slug];localStorage.setItem('novaWish',JSON.stringify(wish));if(b)b.textContent=wish.includes(slug)?'♥':'♡';counts();toast(wish.includes(slug)?'Added to wishlist':'Removed from wishlist')}
 function addToCart(slug){let x=cart.find(a=>a.slug===slug);x?x.qty++:cart.push({slug,qty:1});localStorage.setItem('novaCart',JSON.stringify(cart));counts();toast('Added to cart')}

diff --git a/CHANGELOG.md b/CHANGELOG.md
@@ -1,11 +1,10 @@
 # NOVA DESK Changelog
 
-## V1
-- Complete responsive storefront.
-- 12-product local catalog.
-- Product detail pages.
-- Search, category filters and sorting.
-- Wishlist and localStorage cart.
-- Desk Builder and Chair Finder.
-- Collections, Journal, About and Support.
-- Local product and lifestyle assets.
+## V2
+- Reworked image assets to remove baked-in text and interface elements.
+- Product photographs are tightly cropped to the product-only area.
+- Category photographs are cropped above their labels.
+- Promotional panels no longer depend on banner photographs containing text.
+- All product imagery remains local and deterministic.
+- Removed product-card badges from the interface for a cleaner presentation.
+- Kept search, filters, wishlist, cart, builder, finder, product pages and support.

diff --git a/docs/IMAGE-POLICY.md b/docs/IMAGE-POLICY.md
@@ -1,3 +1,15 @@
-# Image Policy
+# Image Policy — V2
 
-All product images are local assets. Product photography contains only the product: no prices, names, ratings, badges, buttons, hearts or website UI. Interface content is rendered outside the photographs.
+Every product/category photograph is locally stored and mapped explicitly.
+
+### Forbidden inside photographs
+- Product names
+- Prices
+- Ratings/stars
+- Buttons
+- Hearts
+- Badges
+- Website UI
+- Promotional copy
+
+V2 removes the previous promotional banner photographs because those source images contained baked-in text. Promotional messaging is now rendered as HTML/CSS outside photography.
